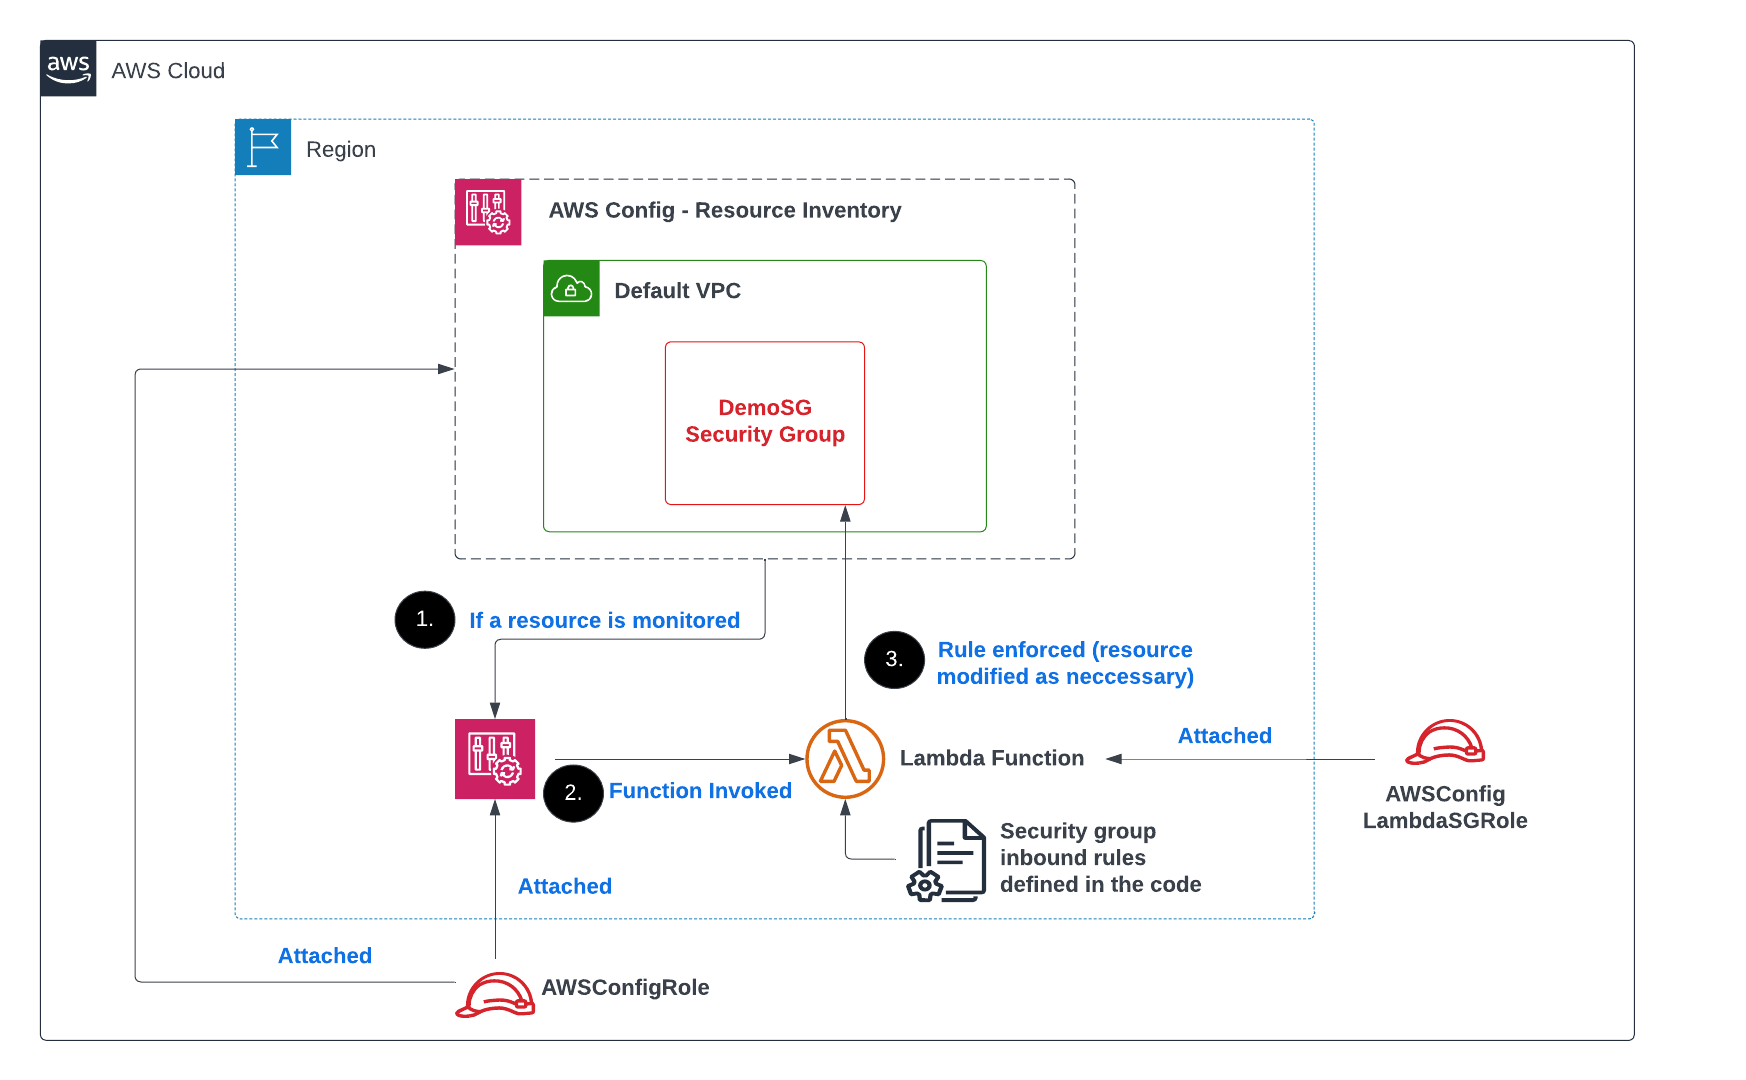
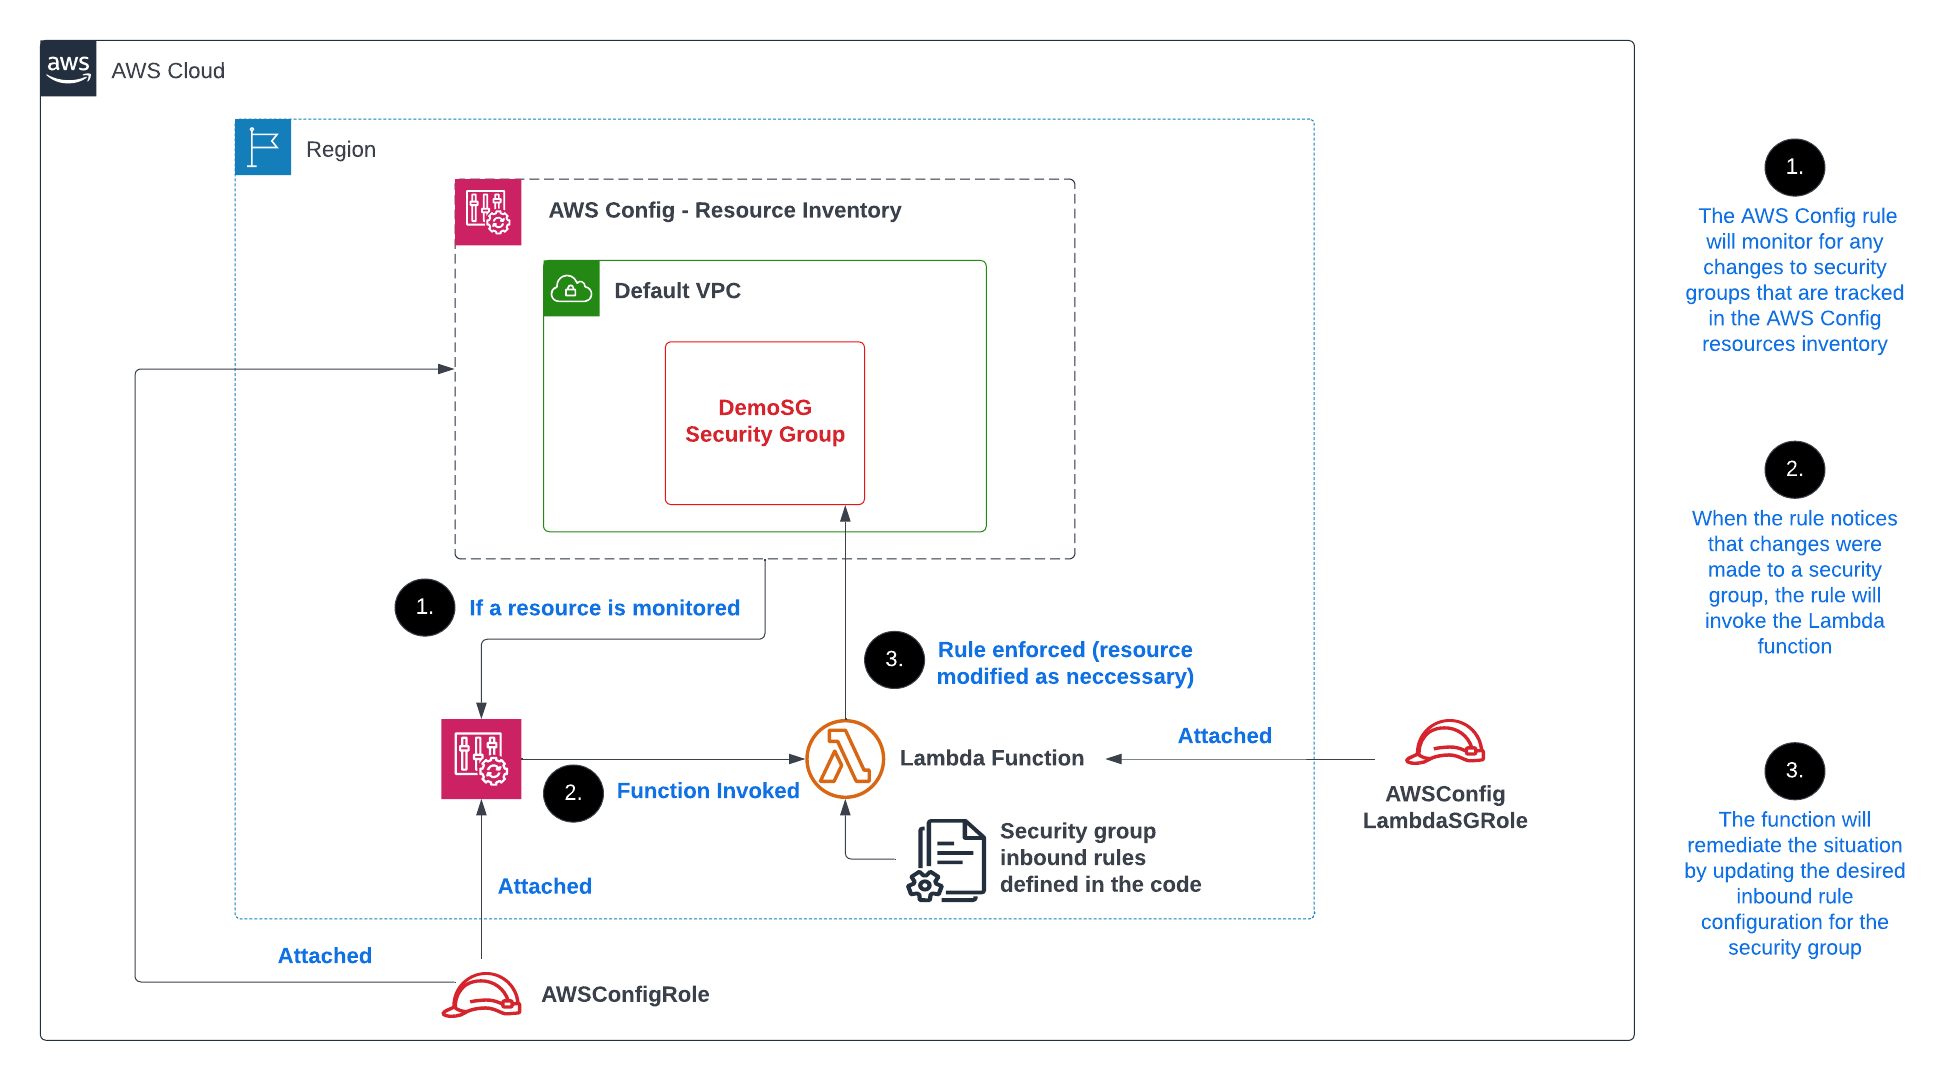
updated README and architecture.png

diff --git a/README.md b/README.md
@@ -7,5 +7,35 @@
   <h1 align="center">Automating Incident Remediation with AWS Config and Lambda</h1>
   <p align="center">
     "Strengthening AWS Resource Security: Using AWS Config and Lambda for Proactive Monitoring and Automated Remediation of Security Concerns."
+    <br />
+   More detail & video demonstration found on my blog:
+    <br />
+    https://blog.digitalden.cloud
   </p>
 </p>
+
+### Project date
+------------------
+16.05-2023
+
+### AWS Services
+------------------
+- AWS Identity and Access Management (IAM)
+- AWS Config
+- AWS Lambda
+- AWS CloudWatch
+
+### Project Description
+-----------------
+Monitored Amazon EC2 security group settings in my AWS account. Defined which inbound ports should and shouldn't be open in a security group. Configured a solution to automatically remediate an incident where someone modified a security group's inbound rules and they no longer conform with the desired configuration.
+
+Used the AWS Config service to monitor changes to specific resources in my AWS account. Used the service to identify changes that could be a security concern, such as a user modifying an Amazon EC2 security group. Integrated AWS Config with AWS Lambda to automatically remediate specific security incidents of concern.
+
+### Objectives
+-----------------
+- [x] Create IAM roles to grant AWS services access to other AWS services.
+- [x] Enable AWS Config to monitor resources in my AWS account.
+- [x] Create a Lambda function and import function code.
+- [x] Create and enable a custom AWS Config rule that uses my Lambda function.
+- [x] Test the behaviour of an AWS Config rule to ensure it works as intended.
+- [x] Analyse Amazon CloudWatch logs to audit when AWS Config rules are invoked.
